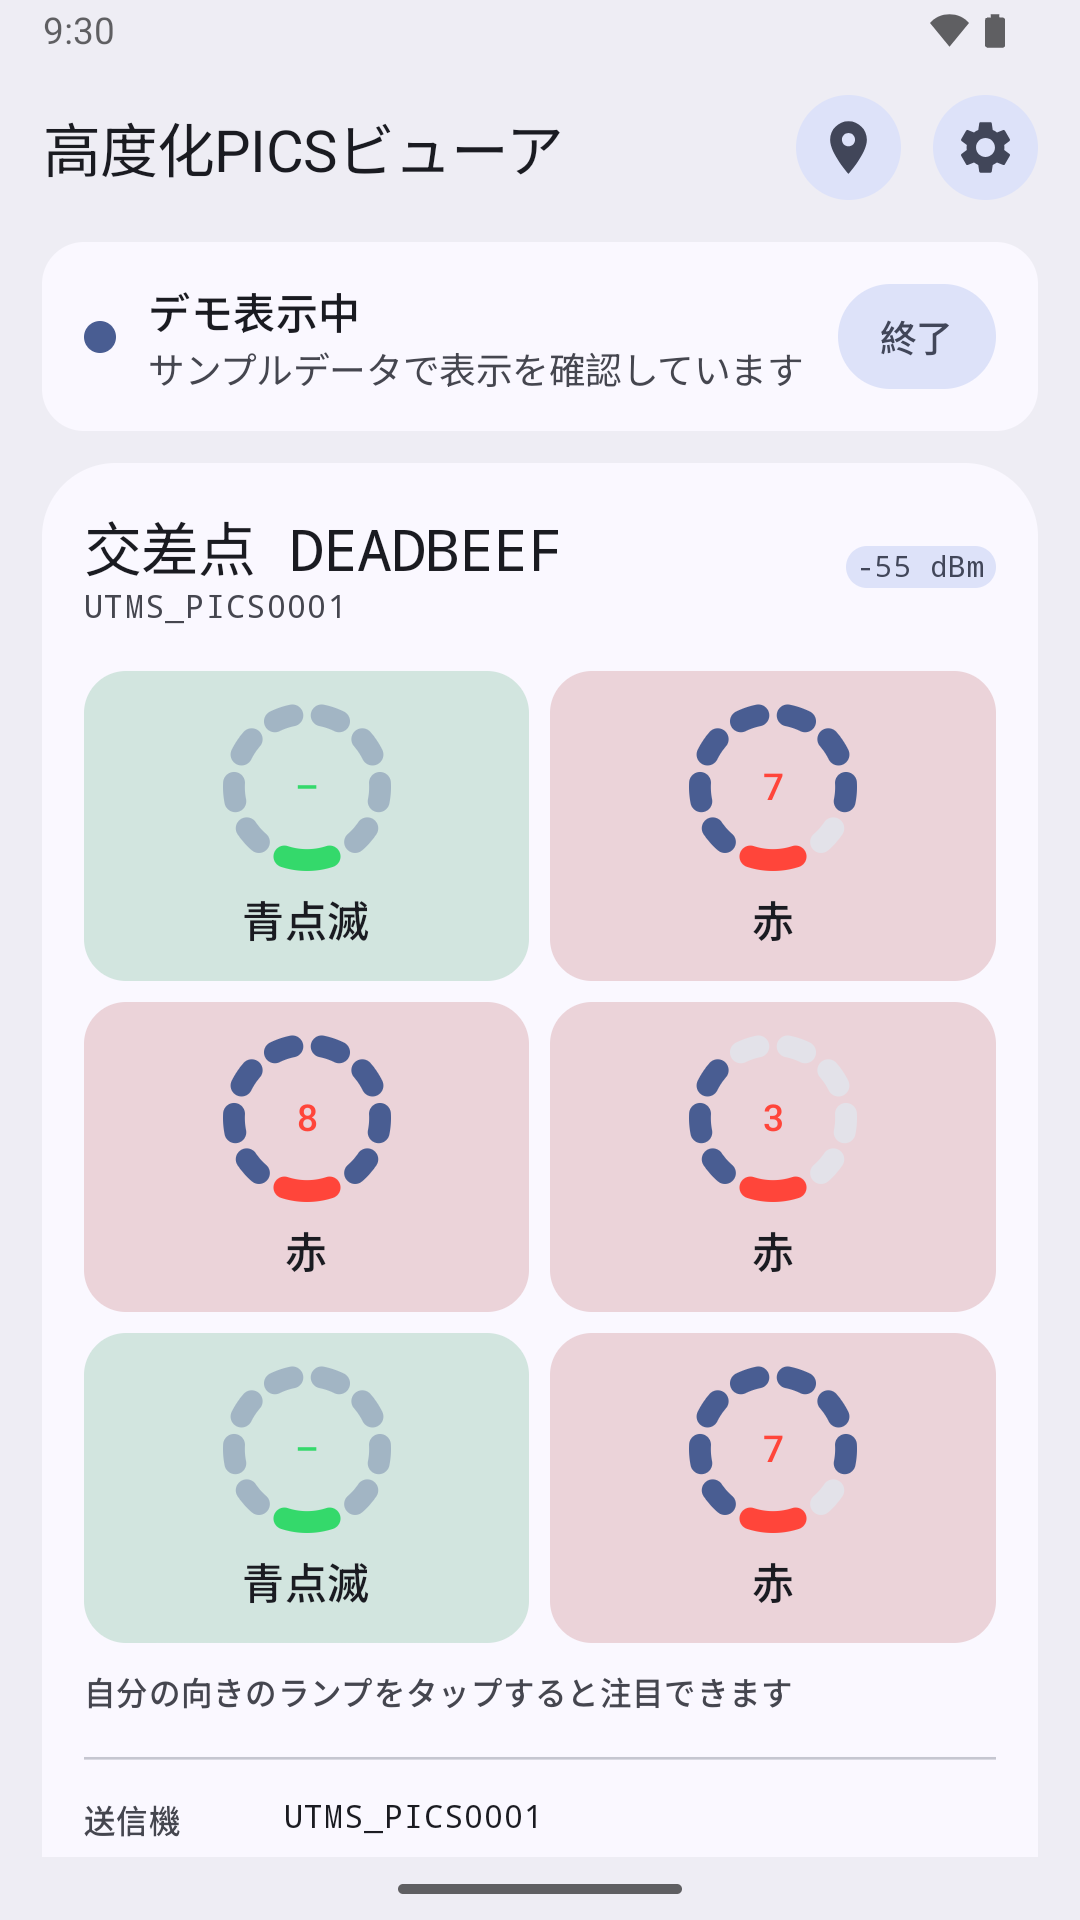
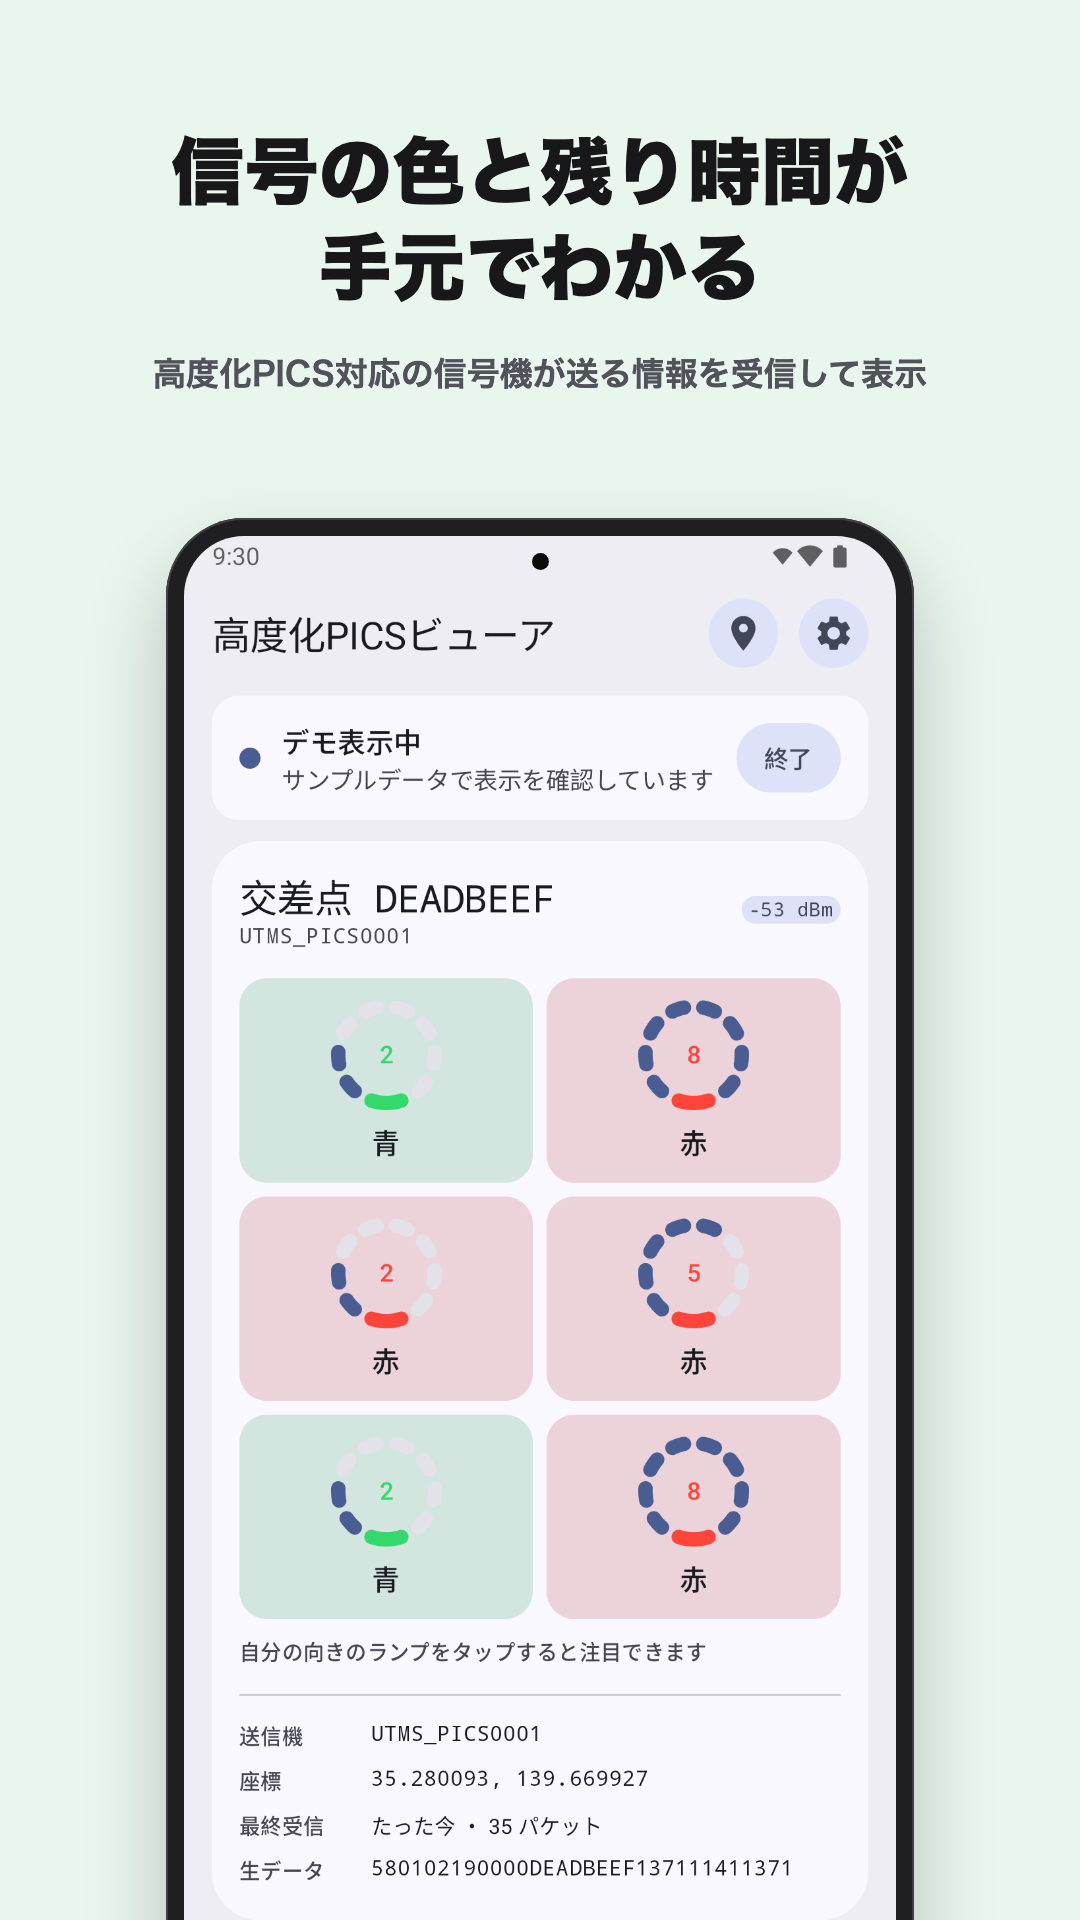
feat(adaptive): フォルダブル・タブレットで 2 列表示にし、ストアの宣材画像を端末モック入りで作り直す
- ホーム: 幅 700dp 以上で信号を左、他の送信機と受信ログを右に並べる
- 地図: 広い画面では一覧を左下のパネルにし、折りたたみ・回転でも選んだ交差点と地図の位置を保つ
- 設定: 広い画面では幅 720dp に収めて中央に置く
- フォルダブル・タブレットのプレビューを追加
- docs/store/promo.py で実機スクリーンショットを端末の枠にはめ、スマホ・7 インチ・10 インチの宣材画像を作る
- versionCode 10 / 1.7.0

diff --git a/app/src/main/java/dev/sashimi/picsviewer/ui/MapScreen.kt b/app/src/main/java/dev/sashimi/picsviewer/ui/MapScreen.kt
@@ -17,6 +17,7 @@ import androidx.activity.result.contract.ActivityResultContracts
 import androidx.compose.foundation.isSystemInDarkTheme
 import androidx.compose.foundation.layout.Arrangement
 import androidx.compose.foundation.layout.Box
+import androidx.compose.foundation.layout.BoxWithConstraints
 import androidx.compose.foundation.layout.Column
 import androidx.compose.foundation.layout.Row
 import androidx.compose.foundation.layout.Spacer
@@ -56,6 +57,7 @@ import androidx.compose.runtime.LaunchedEffect
 import androidx.compose.runtime.getValue
 import androidx.compose.runtime.mutableStateOf
 import androidx.compose.runtime.remember
+import androidx.compose.runtime.saveable.rememberSaveable
 import androidx.compose.runtime.setValue
 import androidx.compose.ui.Alignment
 import androidx.compose.ui.Modifier
@@ -163,7 +165,12 @@ fun MapScreen(onBack: () -> Unit) {
     val mapView = rememberMapViewWithLifecycle()
     var map by remember { mutableStateOf<MapLibreMap?>(null) }
     var style by remember { mutableStateOf<Style?>(null) }
-    var selected by remember { mutableStateOf<PicsIntersection?>(null) }
+    // 折りたたみ・回転で画面が作り直されても、選んだ交差点と地図の位置を保つ
+    var selectedIndex by rememberSaveable { mutableStateOf<Int?>(null) }
+    val selected = selectedIndex?.let { intersections.getOrNull(it) }
+    var savedCamera by rememberSaveable { mutableStateOf<DoubleArray?>(null) }
+    // 作り直し前の位置があるときは、現在地へ勝手に動かさない
+    val cameraRestored = remember { savedCamera != null }
     var location by remember { mutableStateOf<Location?>(null) }
     var nearest by remember {
         mutableStateOf<List<Pair<PicsIntersection, Double>>>(emptyList())
@@ -174,7 +181,7 @@ fun MapScreen(onBack: () -> Unit) {
         map?.animateCamera(CameraUpdateFactory.newLatLngZoom(LatLng(latitude, longitude), zoom))
     }
 
-    fun refreshLocation() {
+    fun refreshLocation(move: Boolean = true) {
         if (!hasLocationPermission(context)) return
         requestLocation(context) { result ->
             if (result != null) {
@@ -184,7 +191,7 @@ fun MapScreen(onBack: () -> Unit) {
                     result.latitude,
                     result.longitude,
                 )
-                moveTo(result.latitude, result.longitude, 13.0)
+                if (move) moveTo(result.latitude, result.longitude, 13.0)
             }
         }
     }
@@ -200,13 +207,19 @@ fun MapScreen(onBack: () -> Unit) {
     LaunchedEffect(styleUri) {
         mapView.getMapAsync { m ->
             if (map == null) {
-                m.cameraPosition = JAPAN
+                m.cameraPosition = savedCamera?.let { (lat, lon, zoom) ->
+                    CameraPosition.Builder().target(LatLng(lat, lon)).zoom(zoom).build()
+                } ?: JAPAN
+                m.addOnCameraIdleListener {
+                    val target = m.cameraPosition.target ?: return@addOnCameraIdleListener
+                    savedCamera = doubleArrayOf(target.latitude, target.longitude, m.cameraPosition.zoom)
+                }
                 m.uiSettings.isRotateGesturesEnabled = false
                 m.uiSettings.isTiltGesturesEnabled = false
                 m.addOnMapClickListener { point ->
                     val screen = m.projection.toScreenLocation(point)
                     handleMapTap(m, screen, intersections, context.resources.displayMetrics.density) {
-                        selected = it
+                        selectedIndex = intersections.indexOf(it)
                     }
                 }
                 map = m
@@ -228,10 +241,12 @@ fun MapScreen(onBack: () -> Unit) {
 
     // 権限がある場合は開いた時点で現在地を取得する
     LaunchedEffect(map, hasLocation) {
-        if (map != null && hasLocation && location == null) refreshLocation()
+        if (map != null && hasLocation && location == null) refreshLocation(move = !cameraRestored)
     }
 
-    Box(Modifier.fillMaxSize()) {
+    BoxWithConstraints(Modifier.fillMaxSize()) {
+        // 広げたフォルダブル・タブレットでは、一覧を画面いっぱいに広げず左下にパネルとして置く
+        val wide = maxWidth >= 700.dp
         AndroidView(
             modifier = Modifier.fillMaxSize().semantics {
                 contentDescription = "対応交差点の地図。近くの交差点は画面下の一覧から選べます"
@@ -243,7 +258,7 @@ fun MapScreen(onBack: () -> Unit) {
             Modifier
                 .align(Alignment.TopCenter)
                 .safeDrawingPadding()
-                .padding(horizontal = 12.dp, vertical = 8.dp)
+                .padding(horizontal = if (wide) 24.dp else 12.dp, vertical = 8.dp)
                 .fillMaxWidth(),
             verticalAlignment = Alignment.CenterVertically,
         ) {
@@ -295,10 +310,10 @@ fun MapScreen(onBack: () -> Unit) {
 
         Column(
             Modifier
-                .align(Alignment.BottomCenter)
+                .align(if (wide) Alignment.BottomStart else Alignment.BottomCenter)
                 .navigationBarsPadding()
-                .padding(horizontal = 12.dp, vertical = 12.dp)
-                .fillMaxWidth(),
+                .padding(horizontal = if (wide) 24.dp else 12.dp, vertical = if (wide) 24.dp else 12.dp)
+                .then(if (wide) Modifier.width(420.dp) else Modifier.fillMaxWidth()),
         ) {
             val current = selected
             if (current != null) {
@@ -312,7 +327,7 @@ fun MapScreen(onBack: () -> Unit) {
                             current.longitude,
                         )
                     },
-                    onClose = { selected = null },
+                    onClose = { selectedIndex = null },
                 )
             } else {
                 NearestCard(
@@ -320,7 +335,7 @@ fun MapScreen(onBack: () -> Unit) {
                     total = intersections.size,
                     hasLocation = hasLocation,
                     onPick = { item ->
-                        selected = item
+                        selectedIndex = intersections.indexOf(item)
                         moveTo(item.latitude, item.longitude, 15.0)
                     },
                     onRequestLocation = {

diff --git a/app/src/main/java/dev/sashimi/picsviewer/ui/HomeScreen.kt b/app/src/main/java/dev/sashimi/picsviewer/ui/HomeScreen.kt
@@ -7,6 +7,8 @@ import androidx.compose.animation.core.rememberInfiniteTransition
 import androidx.compose.animation.core.tween
 import androidx.compose.foundation.background
 import androidx.compose.foundation.layout.Arrangement
+import androidx.compose.foundation.layout.fillMaxHeight
+import androidx.compose.foundation.layout.BoxWithConstraints
 import androidx.compose.foundation.layout.Box
 import androidx.compose.foundation.layout.Column
 import androidx.compose.foundation.layout.Row
@@ -126,15 +128,7 @@ fun HomeScreen(
             )
         },
     ) { padding ->
-        Column(
-            Modifier
-                .fillMaxSize()
-                .padding(padding)
-                .verticalScroll(rememberScrollState())
-                .padding(horizontal = 16.dp)
-                .padding(top = 4.dp, bottom = 24.dp),
-            verticalArrangement = Arrangement.spacedBy(12.dp),
-        ) {
+        val main: @Composable () -> Unit = {
             StatusItem(
                 state = state,
                 permissionGranted = permissionGranted,
@@ -156,7 +150,8 @@ fun HomeScreen(
                     onPin = { index -> onPin(device.intersectionId, index) },
                 )
             }
-
+        }
+        val side: @Composable () -> Unit = {
             if (state.devices.size > 1) {
                 OtherDevices(
                     devices = state.devices.filter { it.key != device?.key },
@@ -167,7 +162,42 @@ fun HomeScreen(
 
             LogCard(logs = state.logs, onShare = onShareLogs)
         }
+
+        BoxWithConstraints(
+            Modifier.fillMaxSize().padding(padding),
+            contentAlignment = Alignment.TopCenter,
+        ) {
+            if (maxWidth >= TwoPaneMinWidth) {
+                // 広げたフォルダブル・タブレット: 信号を左、他の送信機とログを右に並べる
+                Row(
+                    Modifier.widthIn(max = 1200.dp).fillMaxSize().padding(horizontal = 24.dp),
+                    horizontalArrangement = Arrangement.spacedBy(24.dp),
+                ) {
+                    PaneColumn(Modifier.weight(1.1f)) { main() }
+                    PaneColumn(Modifier.weight(0.9f)) { side() }
+                }
+            } else {
+                PaneColumn(Modifier.fillMaxSize().padding(horizontal = 16.dp)) {
+                    main()
+                    side()
+                }
+            }
+        }
     }
+}
+
+/** 2 列に分ける幅。広げたフォルダブル（約 840dp）とタブレットが該当する。 */
+private val TwoPaneMinWidth = 700.dp
+
+@Composable
+private fun PaneColumn(modifier: Modifier, content: @Composable () -> Unit) {
+    Column(
+        modifier
+            .fillMaxHeight()
+            .verticalScroll(rememberScrollState())
+            .padding(top = 4.dp, bottom = 24.dp),
+        verticalArrangement = Arrangement.spacedBy(12.dp),
+    ) { content() }
 }
 
 @Composable

diff --git a/app/src/main/java/dev/sashimi/picsviewer/ui/Previews.kt b/app/src/main/java/dev/sashimi/picsviewer/ui/Previews.kt
@@ -2,6 +2,7 @@ package dev.sashimi.picsviewer.ui
 
 import android.content.res.Configuration
 import androidx.compose.runtime.Composable
+import androidx.compose.ui.tooling.preview.Devices
 import androidx.compose.ui.tooling.preview.Preview
 import dev.sashimi.picsviewer.UiState
 import dev.sashimi.picsviewer.model.DeviceState
@@ -75,7 +76,13 @@ private fun HomeLargeFontPreview() = HomePreviewContent(sampleState(pinned = fal
 @Composable
 private fun HomeEmptyPreview() = HomePreviewContent(UiState(scanning = true, permissionGranted = true))
 
+@Preview(name = "Home フォルダブル（広げた状態）", device = Devices.FOLDABLE, showBackground = true)
+@Preview(name = "Home タブレット", device = Devices.TABLET, showBackground = true)
+@Composable
+private fun HomeWidePreview() = HomePreviewContent(sampleState(pinned = true))
+
 @Preview(name = "設定", widthDp = 412, heightDp = 1200, showBackground = true)
+@Preview(name = "設定 タブレット", device = Devices.TABLET, showBackground = true)
 @Composable
 private fun SettingsPreview() {
     PicsTheme(dynamicColor = false) {

diff --git a/app/src/main/java/dev/sashimi/picsviewer/ui/SettingsScreen.kt b/app/src/main/java/dev/sashimi/picsviewer/ui/SettingsScreen.kt
@@ -5,6 +5,8 @@ import androidx.compose.foundation.layout.Column
 import androidx.compose.foundation.layout.PaddingValues
 import androidx.compose.foundation.layout.fillMaxSize
 import androidx.compose.foundation.layout.padding
+import androidx.compose.foundation.layout.wrapContentWidth
+import androidx.compose.foundation.layout.widthIn
 import androidx.compose.foundation.lazy.LazyColumn
 import androidx.compose.foundation.lazy.LazyListScope
 import androidx.compose.material.icons.Icons
@@ -81,8 +83,9 @@ fun SettingsScreen(
             )
         },
     ) { padding ->
+        // 広い画面では読みやすい幅に収めて中央に置く
         LazyColumn(
-            Modifier.fillMaxSize(),
+            Modifier.fillMaxSize().wrapContentWidth().widthIn(max = 720.dp),
             contentPadding = PaddingValues(
                 start = 16.dp,
                 end = 16.dp,

diff --git a/docs/store/promo.py b/docs/store/promo.py
@@ -1,0 +1,138 @@
+"""ストア掲載用の宣材画像を作る。
+
+docs/store/raw/ の実機スクリーンショットを端末の枠にはめ、見出しを付けて
+fastlane/metadata/android/ja-JP/images/ の各フォルダに書き出す（Chrome のヘッドレスで描画）。
+
+    python3 docs/store/promo.py
+"""
+import html
+import pathlib
+import subprocess
+import tempfile
+
+ROOT = pathlib.Path(__file__).resolve().parents[2]
+RAW = ROOT / "docs/store/raw"
+OUT = ROOT / "fastlane/metadata/android/ja-JP/images"
+CHROME = "/Applications/Google Chrome.app/Contents/MacOS/Google Chrome"
+
+LIGHT = {"bg": "#eef4fb", "fg": "#18181b", "sub": "#52525b"}
+THEMES = {
+    "blue": LIGHT,
+    "green": {"bg": "#e9f6ee", "fg": "#18181b", "sub": "#52525b"},
+    "red": {"bg": "#fdeeed", "fg": "#18181b", "sub": "#52525b"},
+    "sand": {"bg": "#f6f1e7", "fg": "#18181b", "sub": "#52525b"},
+    "dark": {"bg": "#18181b", "fg": "#fafafa", "sub": "#a1a1aa"},
+}
+
+# (出力名, 元画像, 見出し, 補足, 配色)
+SLIDES = {
+    "home": ("phone-home", "信号の色と残り時間が<br>手元でわかる", "高度化PICS対応の信号機が送る情報を受信して表示", "green"),
+    "focus": ("phone-focus", "渡る向きを選べば<br>変わったときに知らせる", "注目したチャンネルの変化を音声と振動でお知らせ", "red"),
+    "map": ("phone-map", "全国596か所の<br>対応交差点を地図で", "現在地から近い順にすぐ見つかる", "blue"),
+    "access": ("phone-dark", "TalkBack・大きな文字<br>ダークテーマに対応", "読み上げと見やすさに配慮しました", "dark"),
+}
+
+FOLD_TITLE = "フォルダブルは<br>2列で見やすく"
+FOLD_SUB = "広げると信号とログを並べて表示"
+
+CSS = """
+* { box-sizing: border-box; margin: 0; }
+html, body { width: %(w)dpx; height: %(h)dpx; overflow: hidden; }
+body { background: %(bg)s; color: %(fg)s; position: relative;
+  font-family: "Hiragino Sans", "Noto Sans JP", system-ui, sans-serif; }
+h1 { font-weight: 800; letter-spacing: 0.01em; line-height: 1.32; }
+p { color: %(sub)s; font-weight: 600; line-height: 1.5; }
+.device { position: absolute; background: #1f1f22; box-shadow: 0 40px 80px rgba(0,0,0,.22), inset 0 0 0 2px #3f3f46; }
+.device img { display: block; width: 100%%; height: auto; }
+.cam { position: absolute; background: #0b0b0c; border-radius: 50%%; }
+"""
+
+
+def device(src, x, y, screen_w, bezel, radius, cam=True):
+    img = f'<img src="{(RAW / (src + ".png")).as_uri()}" style="border-radius:{radius - bezel}px">'
+    cam_html = ""
+    if cam:
+        d = max(14, screen_w // 40)
+        cam_html = f'<div class="cam" style="width:{d}px;height:{d}px;left:calc(50% - {d / 2}px);top:{bezel + d}px"></div>'
+    return (f'<div class="device" style="left:{x}px;top:{y}px;width:{screen_w + 2 * bezel}px;'
+            f'padding:{bezel}px;border-radius:{radius}px">{img}{cam_html}</div>')
+
+
+def page(w, h, theme, body):
+    t = THEMES[theme]
+    return (f"<!doctype html><html lang='ja'><head><meta charset='utf-8'><style>"
+            f"{CSS % {'w': w, 'h': h, **t}}</style></head><body>{body}</body></html>")
+
+
+def portrait(w, h, title, sub, theme, shot, screen_ratio=0.66, bezel=None, radius=None, top=0.27, cam=True):
+    """縦長: 上に見出し、下に端末（縦長の端末は下端をはみ出させる）。"""
+    screen_w = int(w * screen_ratio)
+    bezel = bezel or max(14, w // 60)
+    radius = radius or int(screen_w * 0.11)
+    pad = int(w * 0.08)
+    title_px = int(w * 0.068)
+    text = (f'<div style="position:absolute;left:{pad}px;right:{pad}px;top:{int(h * 0.065)}px;text-align:center">'
+            f'<h1 style="font-size:{title_px}px">{title}</h1>'
+            f'<p style="font-size:{int(title_px * 0.46)}px;margin-top:{int(title_px * 0.45)}px">{html.escape(sub)}</p></div>')
+    x = (w - screen_w) // 2 - bezel
+    return page(w, h, theme, text + device(shot, x, int(h * top), screen_w, bezel, radius, cam=cam))
+
+
+def landscape(w, h, title, sub, theme, shot, screen_h_ratio, aspect, cam=True, radius_ratio=0.06):
+    """横長: 左に見出し、右に端末（縦は収める）。aspect は画面の幅/高さ。"""
+    screen_h = int(h * screen_h_ratio)
+    screen_w = int(screen_h * aspect)
+    bezel = max(16, h // 55)
+    radius = int(min(screen_w, screen_h) * radius_ratio) + bezel
+    right = int(w * 0.06)
+    x = w - right - screen_w - 2 * bezel
+    y = (h - screen_h) // 2 - bezel
+    text_w = x - int(w * 0.12)
+    title_px = int(h * 0.075)
+    text = (f'<div style="position:absolute;left:{int(w * 0.07)}px;width:{text_w}px;top:50%;transform:translateY(-50%)">'
+            f'<h1 style="font-size:{title_px}px">{title}</h1>'
+            f'<p style="font-size:{int(title_px * 0.5)}px;margin-top:{int(title_px * 0.5)}px">{html.escape(sub)}</p></div>')
+    return page(w, h, theme, text + device(shot, x, y, screen_w, bezel, radius, cam=cam))
+
+
+def render(markup, w, h, out):
+    out.parent.mkdir(parents=True, exist_ok=True)
+    with tempfile.NamedTemporaryFile("w", suffix=".html", delete=False) as f:
+        f.write(markup)
+    subprocess.run([CHROME, "--headless=new", "--disable-gpu", "--hide-scrollbars", "--allow-file-access-from-files",
+                    "--force-device-scale-factor=1", f"--window-size={w},{h}", f"--screenshot={out}",
+                    pathlib.Path(f.name).as_uri()], check=True, capture_output=True)
+    print(out.relative_to(ROOT))
+
+
+def main():
+    for d in ["phoneScreenshots", "sevenInchScreenshots", "tenInchScreenshots"]:
+        for old in (OUT / d).glob("*.png"):
+            old.unlink()
+
+    # スマートフォン 1080×1920
+    phone = OUT / "phoneScreenshots"
+    for i, key in enumerate(["home", "focus", "map", "access"], 1):
+        shot, title, sub, theme = SLIDES[key]
+        render(portrait(1080, 1920, title, sub, theme, shot), 1080, 1920, phone / f"{i}-{key}.png")
+    render(portrait(1080, 1920, FOLD_TITLE, FOLD_SUB, "sand", "fold-portrait",
+                    screen_ratio=0.8, radius=48, cam=False), 1080, 1920, phone / "5-foldable.png")
+
+    # 7 インチタブレット 1440×2560
+    seven = OUT / "sevenInchScreenshots"
+    for i, (key, shot) in enumerate([("focus", "tab7-focus"), ("map", "tab7-map")], 1):
+        _, title, sub, theme = SLIDES[key]
+        render(portrait(1440, 2560, title, sub, theme, shot, screen_ratio=0.72, radius=70), 1440, 2560, seven / f"{i}-{key}.png")
+
+    # 10 インチタブレット 2560×1440（横）
+    ten = OUT / "tenInchScreenshots"
+    _, title, sub, theme = SLIDES["focus"]
+    render(landscape(2560, 1440, title, sub, theme, "tab10-focus", 0.84, 1600 / 2560), 2560, 1440, ten / "1-focus.png")
+    _, title, sub, theme = SLIDES["map"]
+    render(landscape(2560, 1440, title, sub, theme, "tab10-map", 0.84, 1600 / 2560), 2560, 1440, ten / "2-map.png")
+    render(landscape(2560, 1440, FOLD_TITLE, FOLD_SUB, "sand",
+                     "fold-focus", 0.7, 2208 / 1840, cam=False), 2560, 1440, ten / "3-foldable.png")
+
+
+if __name__ == "__main__":
+    main()

diff --git a/docs/play-console.md b/docs/play-console.md
@@ -33,7 +33,9 @@ scripts/upload-listing.sh
 - 文言: `title.txt`、`short_description.txt`（80 字以内）、`full_description.txt`（4000 字以内）。連絡先はスクリプトの既定値（contact@sessapps.com、https://advanced-pics.sessapps.com/）
 - アプリアイコン: `images/icon.png`（元データ `docs/store/icon.svg`）
 - フィーチャーグラフィック: `images/featureGraphic.png`（元データ `docs/store/feature-graphic.html` を Chrome のヘッドレスで 1024×500 に書き出す）
-- スマートフォンのスクリーンショット: `images/phoneScreenshots/*.png`（1080×1920。エミュレータで `wm size 1080x1920` とシステム UI のデモモードにして、アプリのデモ表示を撮った）
+- スクリーンショット（宣材画像）: `images/phoneScreenshots/`（1080×1920）、`sevenInchScreenshots/`（1440×2560）、`tenInchScreenshots/`（2560×1440）
+  - `python3 docs/store/promo.py` で、`docs/store/raw/` の実機スクリーンショットを端末の枠にはめて見出しを付け、書き出す（Chrome のヘッドレスで描画）
+  - 元のスクリーンショットはエミュレータで撮った。`wm size` / `wm density` で端末を切り替え（スマホ 1080×2400、7 インチ 1200×1920@320、10 インチ 1600×2560@320、広げたフォルダブル 2208×1840@420 と 1840×2208@420）、システム UI のデモモード（9:30・電池満タン）にして、アプリのデモ表示を撮る
 - リリースノート: `changelogs/<versionCode>.txt`（F-Droid が使う。Play には `upload-play.sh` の `NOTES` で渡す）
 - API で入れられないもの（Play Console で設定する）: カテゴリ（地図＆ナビ）、タグ、プライバシーポリシー URL、データ セーフティ
 
